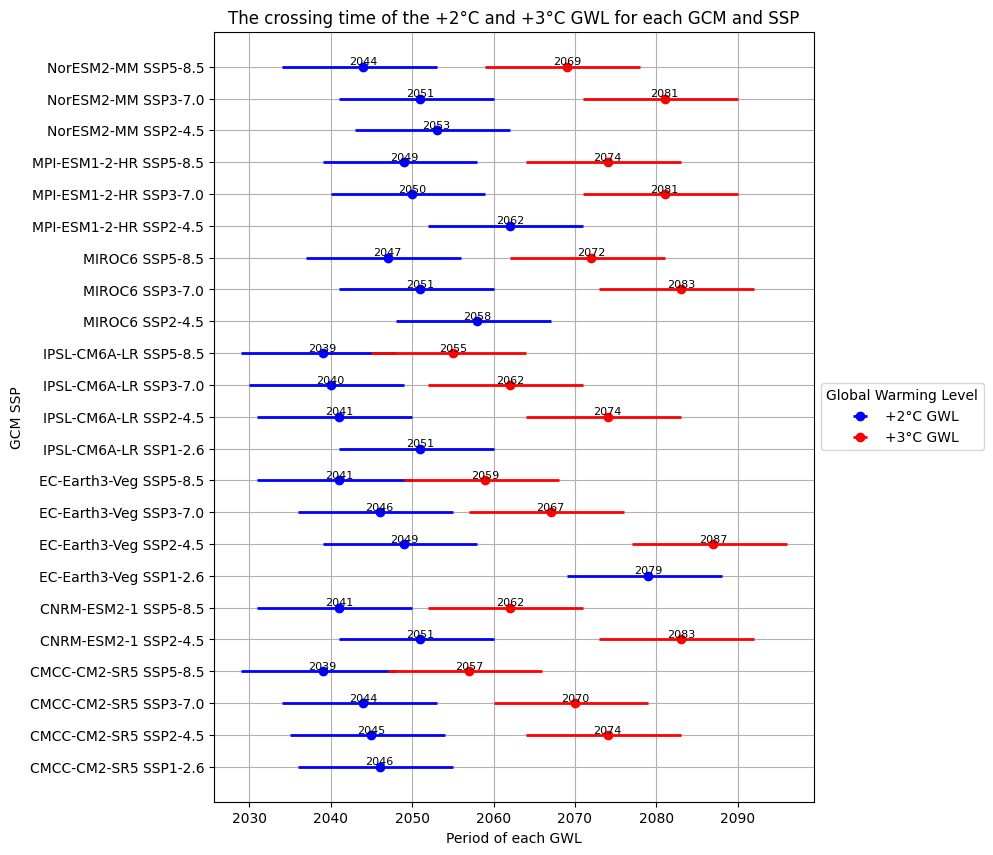
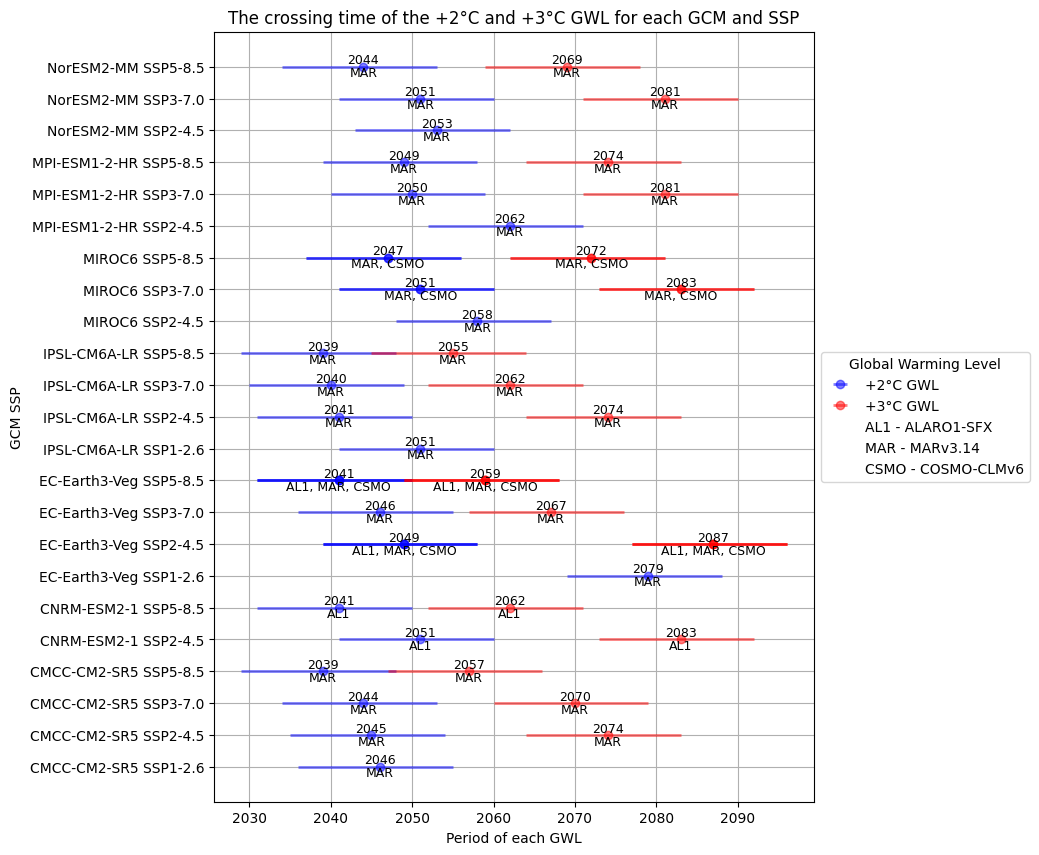
update

diff --git a/GCM_Crossing_Time/crossing_time.py b/GCM_Crossing_Time/crossing_time.py
@@ -1,7 +1,6 @@
 #Read in the crossing time file as a pandas dataframe
 
 import pandas as pd
-from itables import to_html_datatable
 import matplotlib.pyplot as plt
 import seaborn as sns
 
@@ -21,7 +20,7 @@ df = pd.melt(df.reset_index(), id_vars=['GCM','experiment','member'], value_vars
 #Select only the GCMs and SSPs that are planned to be downscaled at 4km resolution
 
 df_selected_GCMs = pd.read_csv('Simulation_Status/input/sim_status.csv')
-df_selected_GCMs = df_selected_GCMs[df_selected_GCMs['resolution'] == '4km'][['driving_GCM','experiment']].drop_duplicates()
+df_selected_GCMs = df_selected_GCMs[df_selected_GCMs['resolution'] == '4km'][['driving_GCM','experiment', 'RCM']].drop_duplicates()
 
 #Format the experiment column to be lowercase and without special characters so that it can be merged with the crossing time dataframe
 df_selected_GCMs.rename(columns={'experiment':'experiment_formatted'}, inplace=True)
@@ -30,7 +29,7 @@ df_selected_GCMs['experiment'] = df_selected_GCMs['experiment_formatted'].str.lo
 ## MERGE THE DATAFRAMES ##
 # Merge (inner) the two dataframes on the GCM and experiment 
 
-df_merged = df.merge(df_selected_GCMs[['driving_GCM','experiment','experiment_formatted']], how='inner', left_on=['GCM','experiment'], right_on=['driving_GCM','experiment']).drop(columns=['driving_GCM'])
+df_merged = df.merge(df_selected_GCMs[['driving_GCM','experiment','experiment_formatted','RCM']], how='inner', left_on=['GCM','experiment'], right_on=['driving_GCM','experiment']).drop(columns=['driving_GCM'])
 
 #Clean up for plotting
 df_merged['Global Warming Level'] = df_merged['threshold'].apply(lambda x: f'+{x}°C GWL')
@@ -43,6 +42,16 @@ df_merged = df_merged.sort_values(by=['GCM','experiment_formatted'])
 
 ## PLOT THE DATA ##
 
+add_rcm = True
+
+def RCM_acronyms(model_name):
+    if model_name == 'ALARO1-SFX':
+        return 'AL1'
+    elif model_name == 'MARv3.14':
+        return 'MAR'
+    elif model_name == 'COSMO-CLMv6':
+        return 'CSMO'
+
 fig, ax = plt.subplots(figsize=(10,10))
 
 for name, group in df_merged.groupby('Global Warming Level'):
@@ -51,11 +60,30 @@ for name, group in df_merged.groupby('Global Warming Level'):
         color = 'blue'
     else:
         color = 'red'
-    plt.errorbar(x=group['crossing_time'], y=group['GCM SSP'], xerr=[group['crossing_time'] - group['crossing_time_start'], group['crossing_time_end'] - group['crossing_time']], fmt='o', label=name, color=color, elinewidth=2)
+    plt.errorbar(x=group['crossing_time'], y=group['GCM SSP'], xerr=[group['crossing_time'] - group['crossing_time_start'], group['crossing_time_end'] - group['crossing_time']], fmt='o', label=name, color=color, elinewidth=2, alpha=0.5)
+    #Aggregate the groups by GCM and experiment by concatenating the RCMs into a single string containing an ACRONYM for each RCM
+    group = group.groupby(['crossing_time','GCM SSP'])['RCM'].apply(lambda x: ', '.join([RCM_acronyms(RCM) for RCM in x])).reset_index()
+    
     #Add text to the points with the year
-    for i, row in group.iterrows():
-        #Move the text more upwards 
-        ax.text(x=row['crossing_time'], y=row['GCM SSP'], s=row['crossing_time'], ha='center', va='bottom', fontsize=8)
+    if add_rcm:
+        for i, row in group.iterrows():
+            #Add a symbol on top of the error bars for each RCM that is planned to be downscaled
+            ax.text(x=row['crossing_time'], y=row['GCM SSP'], s=row['RCM'], ha='center', va='top', fontsize=9, color='black')
+
+    #Aggregate the groups by GCM and experiment
+    GCM_SSPs = group[['crossing_time','GCM SSP']].drop_duplicates()
+    for i, row in GCM_SSPs.iterrows():
+        #Make the text appear a bit higher than the error bars
+        print(row['crossing_time'], row['GCM SSP'])
+        ax.text(x=row['crossing_time'], y=row['GCM SSP'], s=row['crossing_time'], ha='center', va='bottom', fontsize=9, color='black')
+
+#Manually add the RCM Acronyms to the legend as they are not directly plotted
+if add_rcm:
+    plt.errorbar([], [], fmt='o', label='AL1 - ALARO1-SFX', color='white')
+    plt.errorbar([], [], fmt='o', label='MAR - MARv3.14', color='white')
+    plt.errorbar([], [], fmt='o', label='CSMO - COSMO-CLMv6', color='white')
+
+
 
 ax.set_xlabel('Period of each GWL')
 ax.set_ylabel('GCM SSP')
@@ -69,5 +97,4 @@ ax.grid(True)
 
 #Group the y-labels by GCM
 plt.title("The crossing time of the +2°C and +3°C GWL for each GCM and SSP")
-
 plt.savefig('GCM_Crossing_Time/output/crossing_time.png', bbox_inches='tight')

diff --git a/Simulation_Status/sim_status.py b/Simulation_Status/sim_status.py
@@ -19,6 +19,8 @@ for res,df in zip(["12km","4km"],[df_1, df_2]):
     df_mat = df.sort_values(by=['experiment']).pivot_table(index=['driving_GCM'], columns='RCM', values='experiment_formatted', aggfunc=concat_experiments)
     df_mat = df_mat.reindex(sorted(df_mat.columns), axis=1).fillna('')
 
+    #Create a
+
     with open(f'Simulation_Status/output/sim_status_{res}.html', 'w') as f:
         f.write(to_html_datatable(df_mat, dom="t", classes="display"))
 
